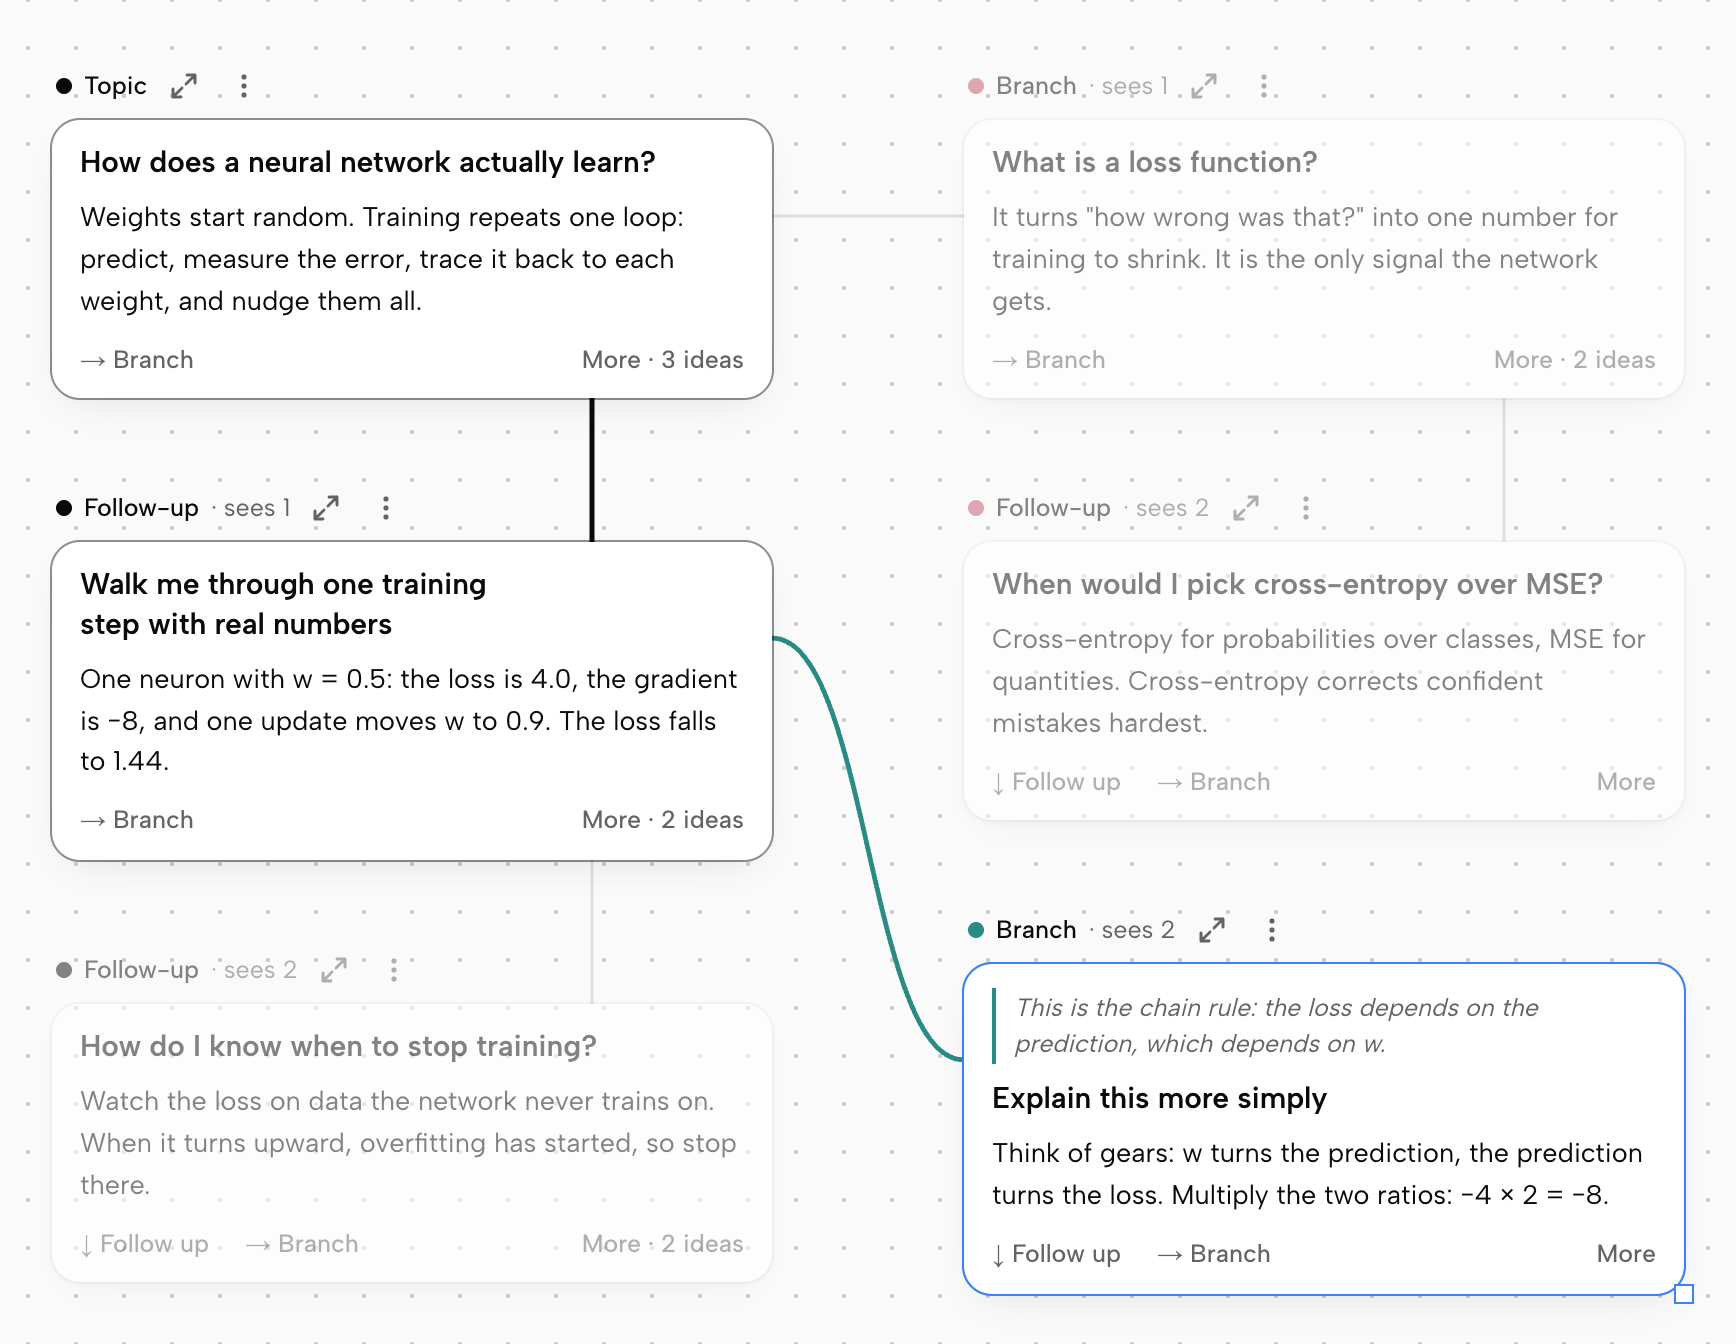
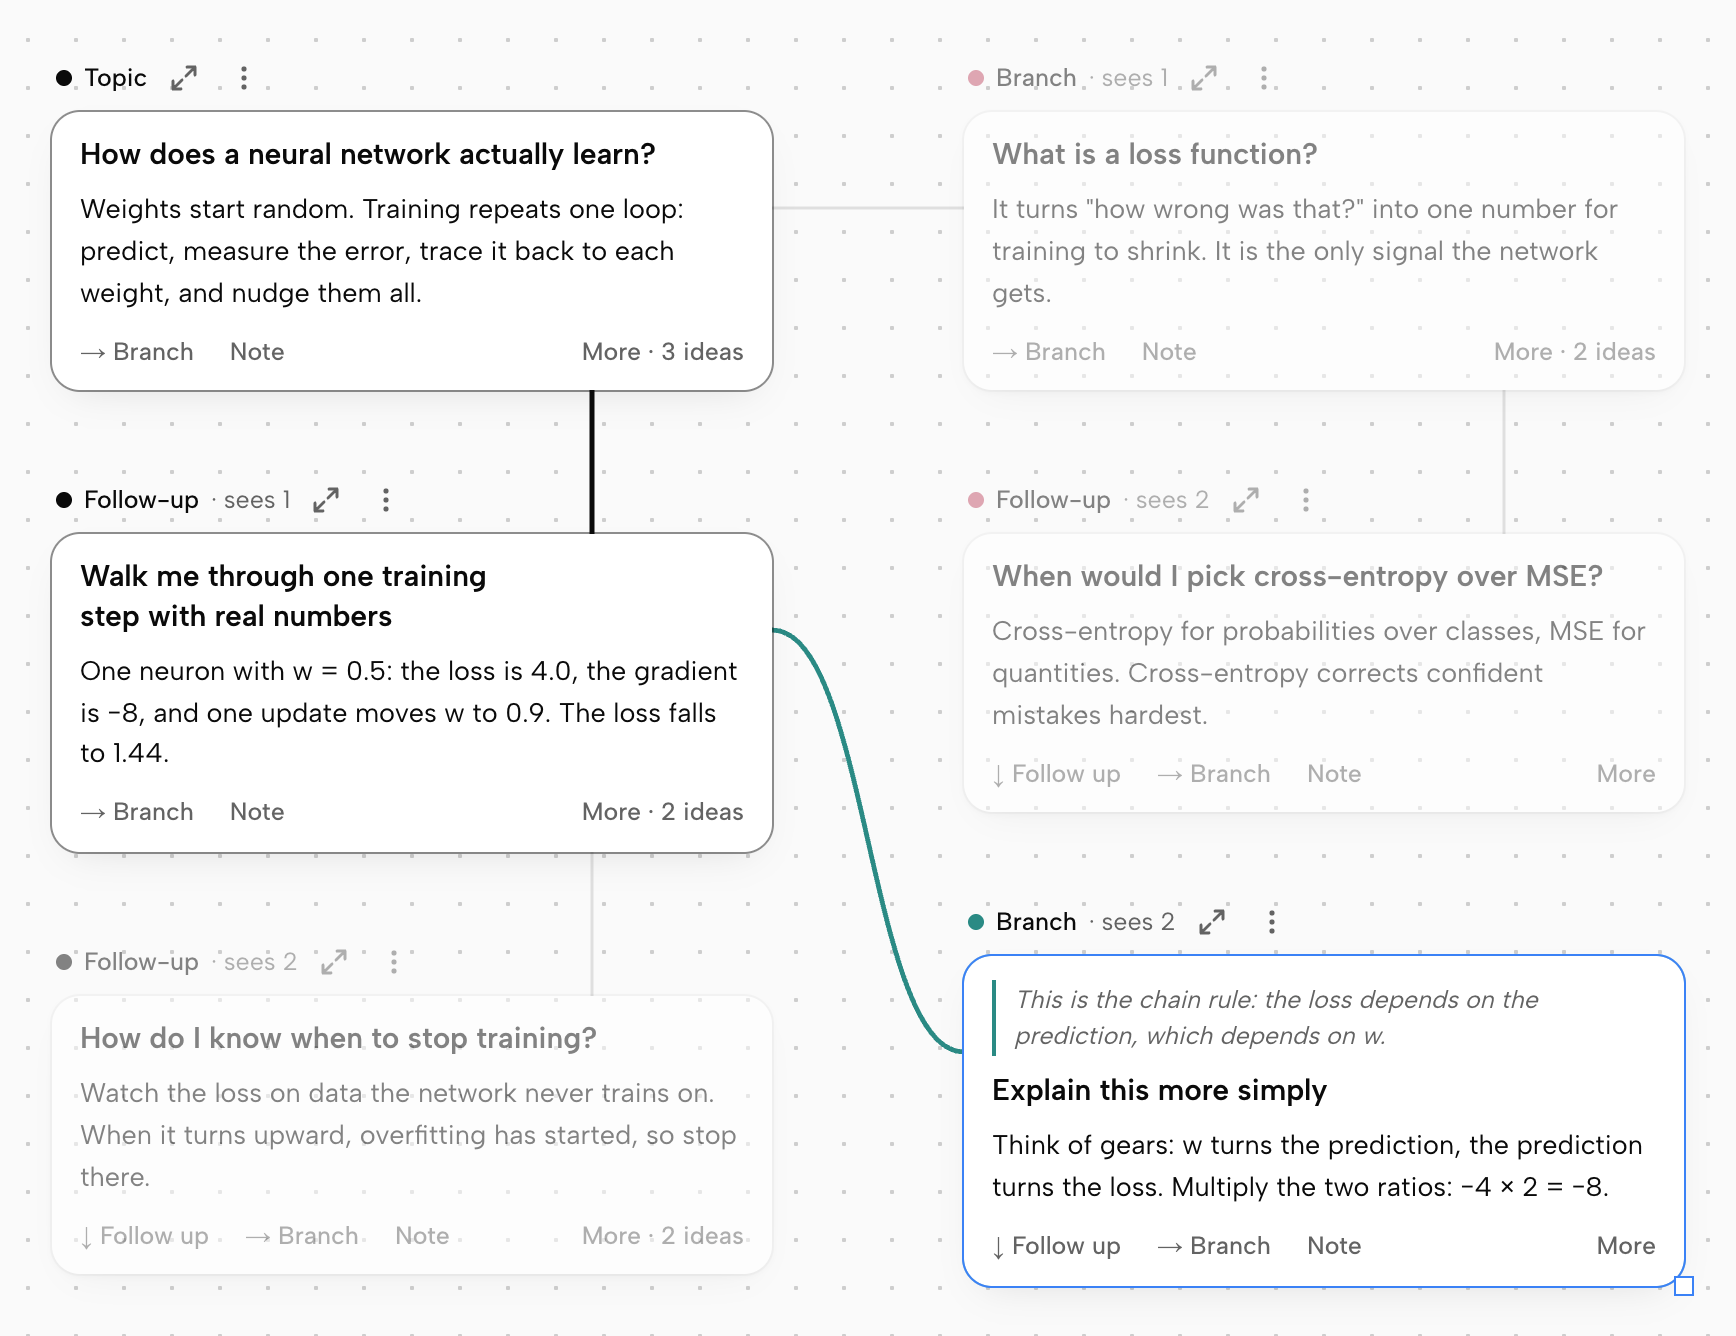
Explain why Branch exists and show its current features in the README
Adds the story behind the project, new sections on highlights, notes and
finding your way back, and screenshots retaken from the current app.

diff --git a/README.md b/README.md
@@ -2,24 +2,52 @@
 
 A canvas for talking to AI the way you actually think: in branches, not one endless scroll.
 
-![A Branch board with a main thread on the left, two side branches on the right, and the prompt bar waiting where the next answer will appear](docs/screenshot.png)
+![A Branch board with a main thread of cards, side branches beside it, sticky notes on the left, a highlighted passage with a note on it, and the prompt bar waiting where the next answer will appear](docs/screenshot.png)
 
 Chat apps put every question in one line, so a side question buries whatever you were doing and you end up scrolling to find it again. Branch lays the conversation out on a board instead. Side questions open off to the side, and the main thread stays where you left it.
 
+## Why I built this
+
+My neurodivergent brain thinks differently. It thinks in questions. One question opens three more, and I follow them: I test a hypothetical, wander down a side path, ask what would happen if. That's how I learn. But I also need to find my way back to the thread I started on, and a normal chat window loses it.
+
+I also learn by connecting new ideas to my own life and stories. So when an adventure is over, I want to come back to what I found, with my own notes next to it, and revise from that.
+
+Branch is the tool I wanted for all of that: somewhere to wander as far as I like, always find my way back, and leave with notes I actually wrote. If your brain works like this too, I hope it helps.
+
+It's also a portfolio project of mine, and it's open source, so use it, change it, or take it apart.
+
+[Adhya Dagar](https://github.com/adhyadagar) · [LinkedIn](https://www.linkedin.com/in/adhya-dagar/)
+
 ## What it does
+
+**Wander**
 
 - **Every question is a card.** A card shows the question and the opening of the answer, which the model writes to carry the takeaway. **More** expands the rest in place.
 - **Follow up or branch.** A follow-up continues the thread. A branch opens a side question without disturbing it.
-- **Highlight any passage** in an answer to branch on just that passage.
+- **Branch on any passage.** Select some words in an answer to ask about just those words.
 - **Branch ideas.** The model suggests up to 3 directions after an answer, and one click explores any of them.
 - **The prompt bar goes where the answer will go.** Press Follow up or Branch and the bar moves into a dashed space below or beside the card, and the answer appears in that same spot. Reading a card never moves it.
 - **Scoped context.** A card only sends the model the cards on its own path. Tangents stay out of the main thread, and each card shows how many earlier cards it sees.
+
+**Find your way back**
+
+- **See every thread.** The threads panel lists every thread on a board, with branches under the thread they came from.
+- **Search a whole board.** Search questions, answers and your notes. A result takes you to its card with the match highlighted.
 - **Open any path as a chat.** The arrows beside a card's label turn that path into a normal linear conversation, with chips to jump to its other branches.
-- **Two layouts.** Switch between Threads (follow-ups go down, branches go right) and Mind map (a classic left-to-right tree). Each remembers where you put things.
-- **A real board.** Drag cards and whatever branches off them follows; hold Alt or Option to move just one card. Drag a corner to resize, add sticky notes, and turn a note into a new topic. **Tidy up** puts everything back in a clean layout, with an undo.
-- **Find any thread.** The threads panel lists every thread on the board. Search it to find a question or answer, and a result takes you to its card with the match highlighted.
 - **Readable from far away.** Zoomed out, cards switch to large titles.
-- **As many boards as you like.** Press **+** beside **Boards** to start a new one. They're saved in your browser.
+
+**Make it yours**
+
+- **Highlight anything.** One click, like highlighting a textbook.
+- **Write notes in your own words.** A note can stick to a passage or a card, or sit loose on the board. It's the same note wherever it lives.
+- **Come back and revise.** Every highlight and note on a board collects in one list, in the order of the board.
+
+**A real board**
+
+- **Two layouts.** Switch between Threads (follow-ups go down, branches go right) and Mind map (a classic left-to-right tree). Each remembers where you put things.
+- **Move things around.** Drag cards and whatever branches off them follows; hold Alt or Option to move just one card. Drag a corner to resize. **Tidy up** puts everything back in a clean layout, with an undo.
+- **As many boards as you like.** Press **+** beside **Boards** to start a new one. A board names itself after your first question, and deleting one gives you a moment to undo it.
+- **A guided first round.** The example board walks you through three things to try, then points you to a board of your own.
 
 ## How branching works
 
@@ -41,13 +69,13 @@ A thread only continues one way, so once a card has a follow-up, every other que
 
 ### Branch on a single passage
 
-Highlight any part of an answer and choose **Branch on this**.
+Select any part of an answer and choose **Branch on this**.
 
-<img src="docs/highlight.png" width="360" alt="A sentence highlighted inside an answer, with a Branch on this button above it">
+<img src="docs/highlight.png" width="360" alt="A sentence selected inside an answer, with a bar above it offering Branch on this, Highlight and Add note">
 
 The new branch keeps that passage attached, and you can type a question or pick a ready-made one.
 
-<img src="docs/highlight-ask.png" width="720" alt="The prompt bar in a space beside the card, showing the highlighted passage and three suggested questions: Explain this more simply, Give me a concrete example, and Why is this true?">
+<img src="docs/highlight-ask.png" width="720" alt="The prompt bar in a space beside the card, showing the selected passage and three suggested questions: Explain this more simply, Give me a concrete example, and Why is this true?">
 
 ### Each branch keeps its own context
 
@@ -63,6 +91,41 @@ The screenshots above use the Threads layout, where follow-ups go down and branc
 
 <img src="docs/mind-map.png" width="800" alt="The same conversation as a left-to-right tree: one topic card on the left, two cards branching from it in the middle, and three more on the right">
 
+## Highlights and notes
+
+Select some words in any answer, on a card or in the chat, and choose what to do with them.
+
+<img src="docs/select-menu.png" width="360" alt="A sentence selected in an answer, with a bar above it offering Branch on this, Highlight and Add note">
+
+- **Highlight** marks the words straight away, with nothing to fill in.
+- **Add note** opens a note beside the words, ready to type in. It saves as you type.
+
+<img src="docs/notes.png" width="360" alt="A highlighted sentence on a card, with a small dot at its start and a yellow note open beside it. The note shows the quoted sentence and the words: Same as a team that hits its target and misses the point. A small tab on the card's top edge shows the number 1">
+
+A note is one idea wherever it lives:
+
+- **Stuck to a passage:** a small dot marks the highlight. Click the dot or the highlight to read or edit the note, or add a note to a highlight you made earlier.
+- **Stuck to a card:** press **Note** on any card.
+- **Loose on the board:** press <kbd>N</kbd> for a note you can drag anywhere, and turn into a new topic with **Ask →**.
+
+A card with notes on it shows a small tab with how many there are, so you can see them at a glance and your cards stay readable.
+
+### Come back and revise
+
+The notes button on the left toolbar opens everything you've marked on the board, with the words around each highlight so you remember where it came from. Click one to go to it.
+
+<img src="docs/highlights-and-notes.png" width="560" alt="A panel listing highlights and notes grouped by thread, each highlighted passage shown with the words around it and the note below, then a section called On the board with three coloured notes">
+
+## Finding your way back
+
+The threads button on the left toolbar, or <kbd>⌘</kbd>/<kbd>Ctrl</kbd> + <kbd>K</kbd>, lists every thread on the board. Click one to go to it and see its cards, or press the arrows to read it as a chat.
+
+<img src="docs/threads.png" width="800" alt="A panel listing three threads on the board, with the first open to show its follow-ups. On the board, that thread's first card is selected and lit up">
+
+Search covers questions, answers and notes. A result opens its card and highlights the match, even if it's far down a long answer.
+
+<img src="docs/search.png" width="800" alt="A search for the word validation in the panel, with one result. The matching card is open on the board with every use of the word highlighted">
+
 ## Quick start
 
 You need [Node.js](https://nodejs.org) 22 or later.
@@ -74,7 +137,9 @@ npm install
 npm run dev
 ```
 
-Open <http://localhost:3000>. You start on an example board with real answers already written, so you can explore it right away. Without an API key, new questions get placeholder answers.
+Open <http://localhost:3000>. You start on an example board with real answers already written, and a short guide walks you through three things to try. When you ask about a new topic, it starts a board of its own, so your work never begins inside the demo. Without an API key, new questions get placeholder answers.
+
+<img src="docs/guide.png" width="800" alt="The example board with a Try it card at the top right: step 1, Click a card, is ticked off, step 2, Branch on a passage, is open with instructions, and step 3, Open a path as a chat, is next">
 
 ## Use a real model
 
@@ -99,6 +164,7 @@ Branch is built to run on your own machine, for one person.
 
 - Your API key stays on the server and `.env.local` is ignored by git.
 - Boards are saved in your browser. What you ask is sent to the model provider you configured, along with the earlier cards on that branch.
+- Your highlights and notes stay in your browser and aren't sent to the model. A note on the board is only sent if you press **Ask →** on it.
 - `/api/chat` has no login, so **anyone who can reach it can spend your API credit**. `npm run dev` listens only on `localhost`, but `npm start` listens on all network interfaces. Put authentication in front of it before hosting it anywhere public.
 
 See [SECURITY.md](SECURITY.md) for more, including how to report a vulnerability.
@@ -111,10 +177,10 @@ See [SECURITY.md](SECURITY.md) for more, including how to report a vulnerability
 | <kbd>⌘</kbd>/<kbd>Ctrl</kbd> + scroll, or pinch on a trackpad | Zoom |
 | Double-click a card | Open it as a chat |
 | <kbd>V</kbd> / <kbd>H</kbd> | Select tool / pan tool |
-| <kbd>N</kbd> | Add a sticky note |
-| <kbd>⌘</kbd>/<kbd>Ctrl</kbd> + <kbd>K</kbd> | Search this board's threads |
-| <kbd>↑</kbd> / <kbd>↓</kbd>, then <kbd>Enter</kbd> | Move through the threads panel and open a row |
-| <kbd>Esc</kbd> | Cancel the question you were about to ask, leave the chat, or clear the search and close the threads panel |
+| <kbd>N</kbd> | Add a note to the board |
+| <kbd>⌘</kbd>/<kbd>Ctrl</kbd> + <kbd>K</kbd> | Search this board |
+| <kbd>↑</kbd> / <kbd>↓</kbd>, then <kbd>Enter</kbd> | Move through the panel's list and open a row |
+| <kbd>Esc</kbd> | Close a note or menu, cancel the question you were about to ask, leave the chat, or clear the search and close the panel |
 | <kbd>Enter</kbd> / <kbd>Shift</kbd>+<kbd>Enter</kbd> | Send / new line |
 
 ## Where things live
@@ -123,9 +189,10 @@ See [SECURITY.md](SECURITY.md) for more, including how to report a vulnerability
 | --- | --- |
 | `src/lib/layout.ts` | Both layouts, and the curves between cards |
 | `src/lib/view.ts` | Camera and card positions, kept outside React so panning stays smooth |
-| `src/lib/actions.ts` | Everything the UI can do: asking, drag, tidy up, boards |
+| `src/lib/actions.ts` | Everything the UI can do: asking, drag, tidy up, boards, notes |
 | `src/lib/ask.ts` | Builds a card's context from its path and streams the answer into it |
 | `src/lib/answer.ts` | Splits model output into the opening a card shows, the full answer and branch ideas |
+| `src/lib/annotations.ts` | Finds noted passages in an answer and paints their highlights and dots |
 | `src/lib/search.ts` | Searches a board's threads and highlights matches on cards |
 | `src/lib/store.ts` | Boards and UI state, saved to localStorage, plus migrations for older boards |
 | `src/lib/sample.ts` | The example board |
@@ -134,7 +201,9 @@ See [SECURITY.md](SECURITY.md) for more, including how to report a vulnerability
 | `src/components/Card.tsx` | A card |
 | `src/components/PromptBar.tsx` | The prompt bar and how it moves |
 | `src/components/ChatView.tsx` | A path as a linear conversation |
-| `src/components/ThreadsPanel.tsx` | The list of a board's threads and the search over them |
+| `src/components/ThreadsPanel.tsx` | The list of a board's threads, its highlights and notes, and the search over them |
+| `src/components/Notes.tsx` | Writing and reading the notes on a card or passage |
+| `src/components/Guide.tsx` | The guided first round on the example board |
 
 ## Contributing
 
